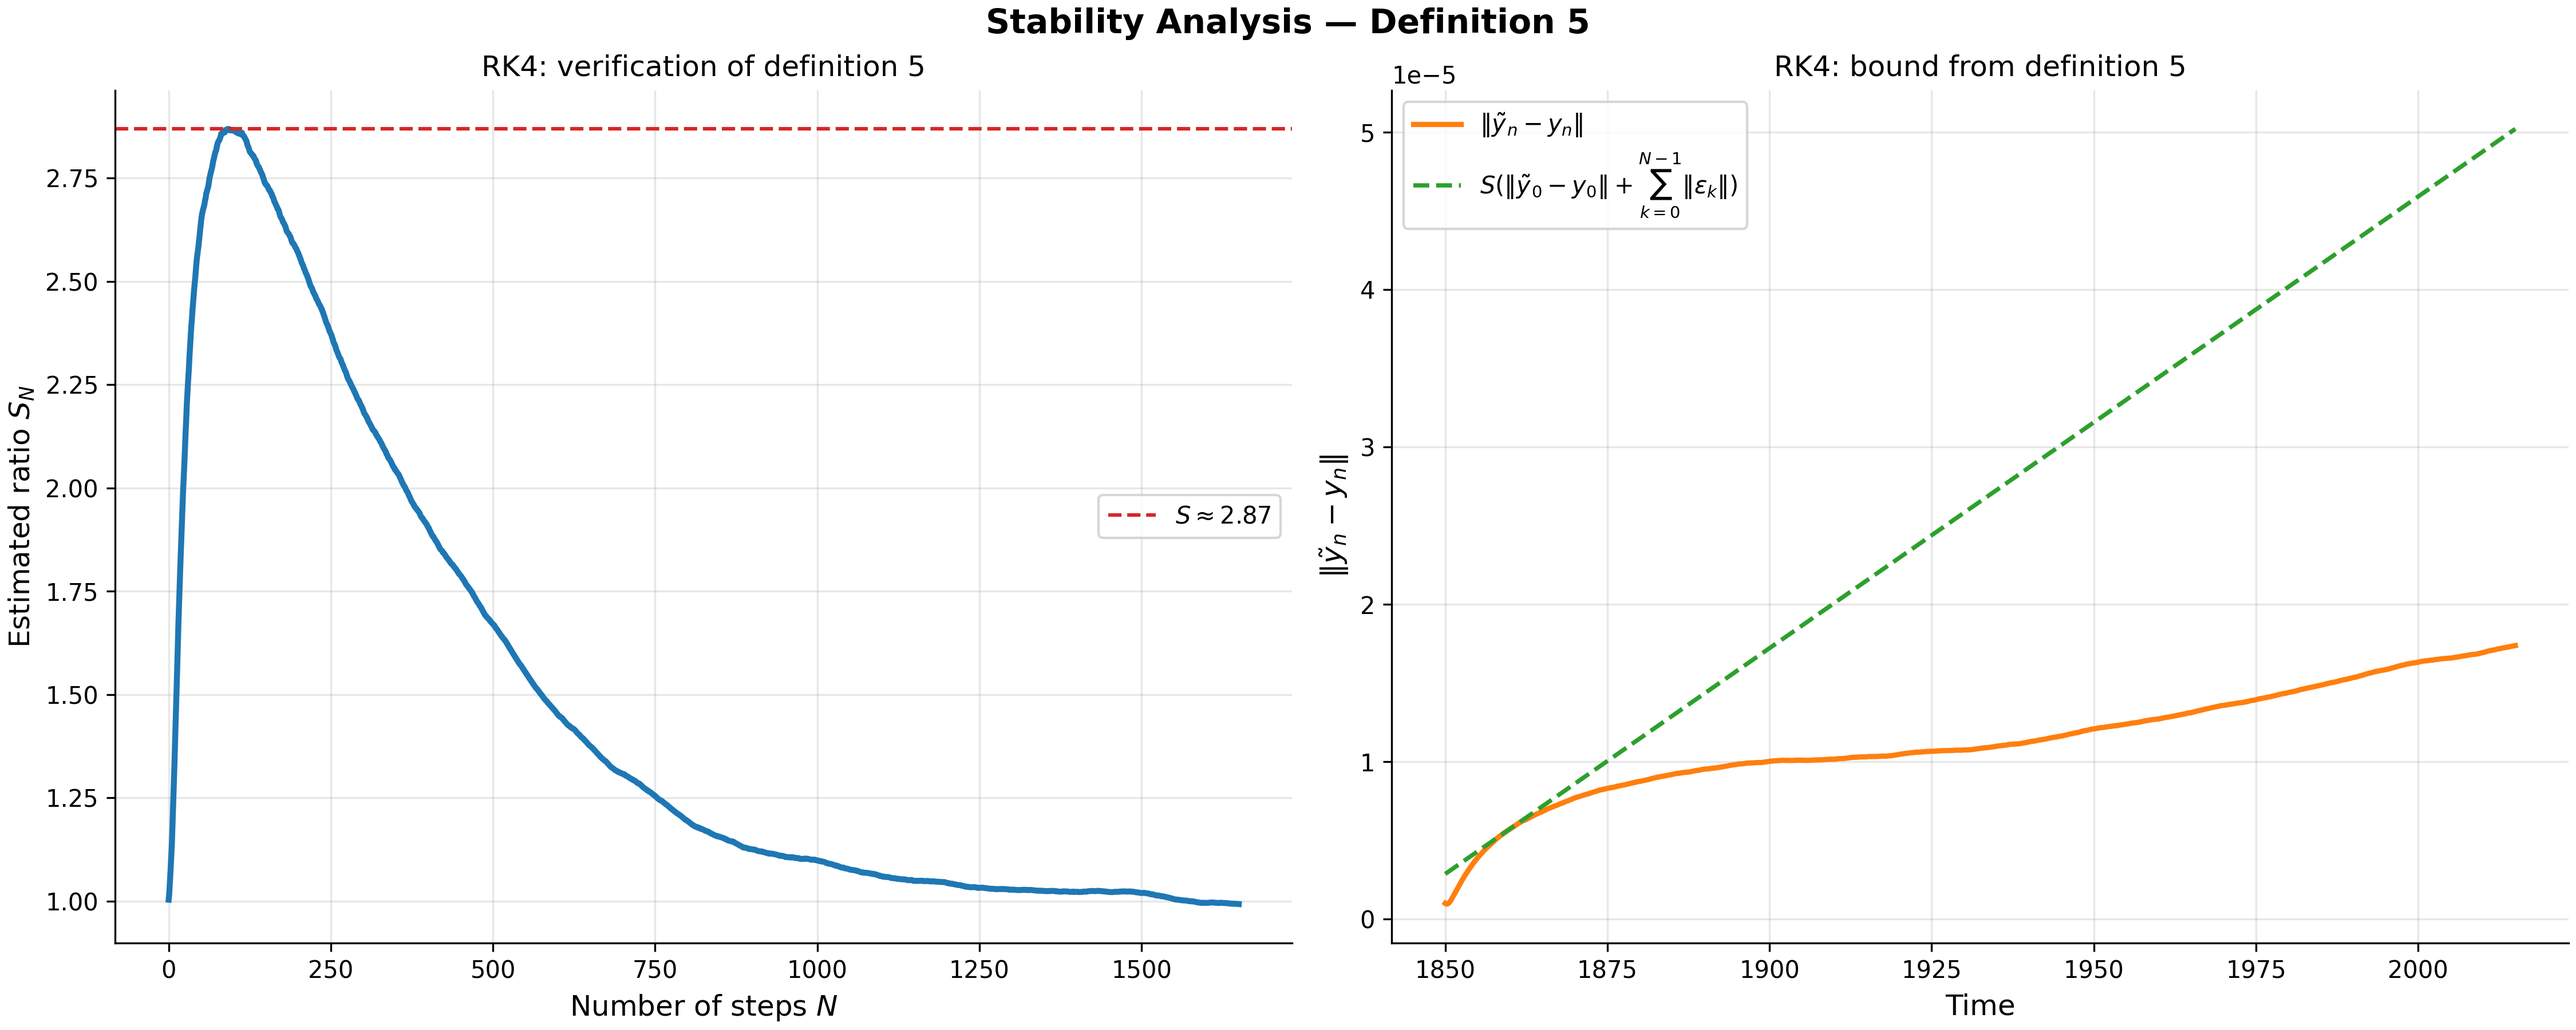
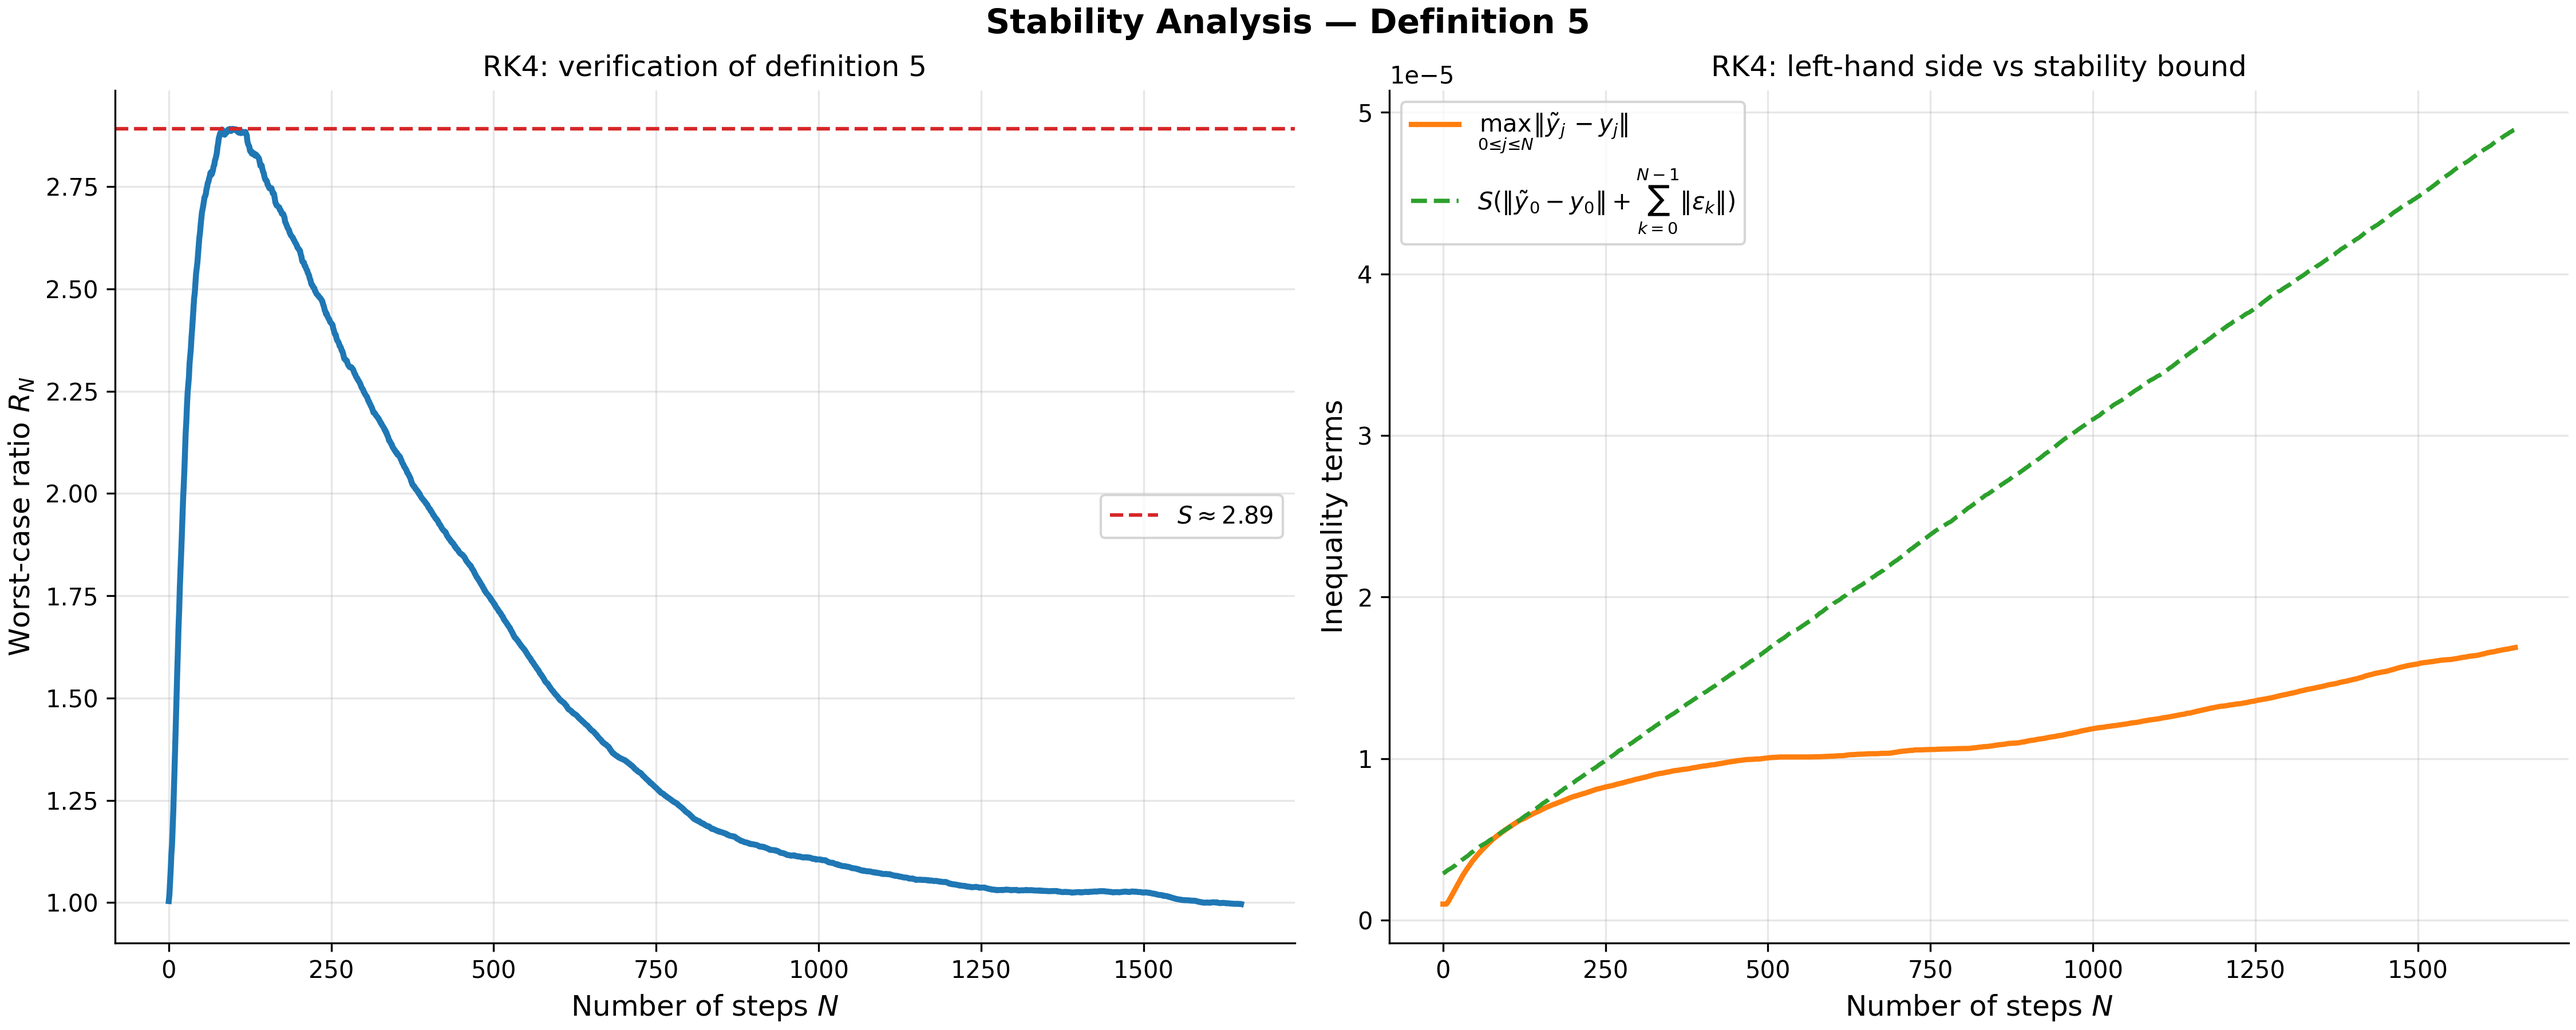
ded

diff --git a/carbone_clean.py b/carbone_clean.py
@@ -547,28 +547,29 @@ def analyse_stability():
     """
     Vérifie numériquement la définition 5 de stabilité.
 
-    Pour le schéma choisi, on construit des suites y_n et y~_n telles que
+    Pour chaque horizon N, on calcule
 
-        y_{n+1} = y_n + h_n * phi(t_n, y_n, h_n)
-        y~_{n+1} = y~_n + h_n * phi(t_n, y~_n, h_n) + eps_n
-
-    puis on estime, pour chaque horizon N,
-
-        S_N = max_{0<=n<=N} ||y~_n-y_n||
+        R_N = max_{0<=j<=N} ||y~_j-y_j||
               -----------------------------------------------
-              ||y~_0-y_0|| + sum_{k=0}^{N-1} ||eps_k||.
+              ||y~_0-y_0|| + sum_{k=0}^{N-1} ||eps_k||
 
-    Si les S_N restent bornés lorsque N augmente, cela soutient la stabilité
-    du schéma au sens de la définition 5.
+    puis on estime une constante S indépendante de N par
+
+        S_est = max_N R_N
+
+    sur un ensemble de trajectoires perturbées.
     """
     t0, tf, dt = 1850, 2015, 0.1
     times = _make_times(t0, tf, dt)
     n_steps = len(times) - 1
     n_trials = 80
     method_name = 'RK4'
+    state_dim = len(x0)
 
     delta0_size = 1e-6
-    noise_size = 1e-8
+    target_eps_norm = 1e-8
+    eps_std = target_eps_norm / np.sqrt(state_dim)
+    eps_variance = eps_std ** 2
 
     rng = np.random.default_rng(42)
 
@@ -588,69 +589,74 @@ def analyse_stability():
 
         return y, y_pert
 
-    S_by_N = np.zeros(n_steps + 1)
-    representative_diff = None
-    representative_bound = None
+    ratio_by_N = np.zeros(n_steps + 1)
+    representative_lhs = None
+    representative_rhs_base = None
     representative_ratio = -np.inf
+    representative_delta0_norm = None
 
     for _ in range(n_trials):
-        delta0 = rng.normal(size=len(x0))
+        delta0 = rng.normal(size=state_dim)
         delta0 /= np.linalg.norm(delta0)
         delta0 *= delta0_size
 
-        epsilons = rng.normal(size=(n_steps, len(x0)))
-        epsilons /= np.linalg.norm(epsilons, axis=1, keepdims=True)
-        epsilons *= noise_size
+        # i.i.d. Gaussian perturbations: epsilon_n ~ N(0, sigma^2 I)
+        epsilons = rng.normal(loc=0.0, scale=eps_std, size=(n_steps, state_dim))
 
         y, y_pert = run_pair(delta0, epsilons)
 
         diff_norms = np.linalg.norm(y_pert - y, axis=1)
+        lhs_N = np.maximum.accumulate(diff_norms)
         epsilon_norms = np.linalg.norm(epsilons, axis=1)
-        denominator = np.linalg.norm(delta0) + np.concatenate(([0.0], np.cumsum(epsilon_norms)))
-        running_max_error = np.maximum.accumulate(diff_norms)
-        ratios = np.divide(running_max_error, denominator,
-                           out=np.zeros_like(running_max_error),
-                           where=denominator > 0)
+        delta0_norm = np.linalg.norm(delta0)
+        rhs_base_N = delta0_norm + np.concatenate(([0.0], np.cumsum(epsilon_norms)))
+        ratios = np.divide(lhs_N, rhs_base_N,
+                           out=np.zeros_like(lhs_N),
+                           where=rhs_base_N > 0)
 
-        S_by_N = np.maximum(S_by_N, ratios)
+        ratio_by_N = np.maximum(ratio_by_N, ratios)
 
         trial_peak_ratio = np.max(ratios)
         if trial_peak_ratio > representative_ratio:
             representative_ratio = trial_peak_ratio
-            representative_diff = diff_norms.copy()
-            representative_bound = denominator.copy()
+            representative_lhs = lhs_N.copy()
+            representative_rhs_base = rhs_base_N.copy()
+            representative_delta0_norm = delta0_norm
 
-    stability_constant = np.max(S_by_N)
-    representative_bound *= stability_constant
+    stability_constant = np.max(ratio_by_N)
+    representative_rhs = stability_constant * representative_rhs_base
 
     print(f"\nStability Analysis Results ({method_name}, definition 5):")
     print(f"  dt = {dt}")
     print(f"  N_max = {n_steps}")
-    print(f"  S_Nmax ≈ {S_by_N[-1]:.4f}")
+    print(f"  epsilon_n ~ N(0, sigma^2 I), sigma = {eps_std:.3e}")
+    print(f"  epsilon variance per component sigma^2 = {eps_variance:.3e}")
+    print(f"  R_Nmax ≈ {ratio_by_N[-1]:.4f}")
+    print(f"  ||y~_0 - y_0|| (representative) ≈ {representative_delta0_norm:.3e}")
     print(f"  Estimated stability constant S ≈ {stability_constant:.4f}")
 
     fig, axes = plt.subplots(1, 2, figsize=(15, 6), constrained_layout=True)
 
     ax1 = axes[0]
     N_values = np.arange(n_steps + 1)
-    ax1.plot(N_values, S_by_N, color='tab:blue', linewidth=2.5)
+    ax1.plot(N_values, ratio_by_N, color='tab:blue', linewidth=2.5)
     ax1.axhline(stability_constant, color='tab:red', linestyle='--', linewidth=1.5,
                 label=rf'$S \approx {stability_constant:.2f}$')
     ax1.set_xlabel('Number of steps $N$', fontsize=12)
-    ax1.set_ylabel(r'Estimated ratio $S_N$', fontsize=12)
+    ax1.set_ylabel(r'Worst-case ratio $R_N$', fontsize=12)
     ax1.set_title(f'{method_name}: verification of definition 5', fontsize=12)
     ax1.grid(alpha=0.3)
     ax1.legend(fontsize=10)
     ax1.spines[['top', 'right']].set_visible(False)
 
     ax2 = axes[1]
-    ax2.plot(times, representative_diff, color='tab:orange', linewidth=2.2,
-             label=r'$\|\tilde y_n-y_n\|$')
-    ax2.plot(times, representative_bound, color='tab:green', linestyle='--', linewidth=1.8,
+    ax2.plot(N_values, representative_lhs, color='tab:orange', linewidth=2.2,
+             label=r'$\max_{0\leq j\leq N}\|\tilde y_j-y_j\|$')
+    ax2.plot(N_values, representative_rhs, color='tab:green', linestyle='--', linewidth=1.8,
              label=r'$S(\|\tilde y_0-y_0\|+\sum_{k=0}^{N-1}\|\varepsilon_k\|)$')
-    ax2.set_xlabel('Time', fontsize=12)
-    ax2.set_ylabel(r'$\|\tilde y_n-y_n\|$', fontsize=12)
-    ax2.set_title(f'{method_name}: bound from definition 5', fontsize=12)
+    ax2.set_xlabel('Number of steps $N$', fontsize=12)
+    ax2.set_ylabel('Inequality terms', fontsize=12)
+    ax2.set_title(f'{method_name}: left-hand side vs stability bound', fontsize=12)
     ax2.grid(alpha=0.3)
     ax2.legend(fontsize=10)
     ax2.spines[['top', 'right']].set_visible(False)
@@ -661,7 +667,7 @@ def analyse_stability():
     plt.savefig(out / 'stabilite_vp.png', dpi=300)
     plt.show()
 
-    return S_by_N[-1], stability_constant
+    return ratio_by_N[-1], stability_constant
 
 # ══════════════════════════════════════════════════════════════════════════════
 # MAIN
@@ -678,6 +684,6 @@ if __name__ == '__main__':
     # compare_with_historical(times, results)
     # plot_temperature_anomaly()
     # verify_mass_conservation(times, results)
-    analyse_convergence()
+    #analyse_convergence()
     # analyse_consistance()
-    #analyse_stability()
+    analyse_stability()
